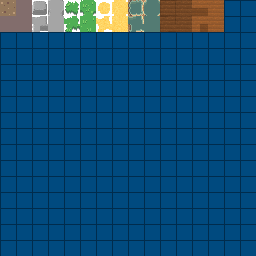
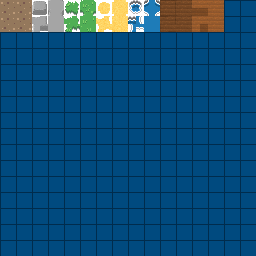
Working on terrain and zombies

diff --git a/WorldOfImagination/Maker.Hevadea/Game/Tiles/GrassTile.cs b/WorldOfImagination/Maker.Hevadea/Game/Tiles/GrassTile.cs
@@ -1,12 +1,29 @@
-using Maker.Rise.Ressource;
+using Maker.Hevadea.Enum;
+using Maker.Rise.Ressource;
+using System;
 
 namespace Maker.Hevadea.Game.Tiles
 {
     public class GrassTile : Tile
     {
+        Random rnd = new Random();
+
         public GrassTile(byte id) : base(id)
         {
             Sprite = new Sprite(Ressources.tile_tiles, 2);
+        }
+
+        public override void Update(Level level, int tx, int ty)
+        {
+
+            base.Update(level, tx, ty);
+            var direction = (Direction)(rnd.Next(0, 4));
+            var p = direction.ToPoint();
+
+            if (level.GetTile(tx + p.X, ty + p.Y) is DirtTile && rnd.Next(10) == 5)
+            {
+                level.SetTile(tx + p.X, ty + p.Y, Grass);
+            }
         }
     }
 }

diff --git a/WorldOfImagination/Maker.Hevadea/Game/Entities/ZombieEntity.cs b/WorldOfImagination/Maker.Hevadea/Game/Entities/ZombieEntity.cs
@@ -21,6 +21,7 @@ namespace Maker.Hevadea.Game.Entities
             AddComponent(new NpcRenderComponent(new Sprite(Ressources.tile_creatures, 2, new Point(16, 32))));
         }
 
+        Random rnd = new Random();
         private int counter = 16;
         private Direction direction = Direction.Down;
         
@@ -30,7 +31,6 @@ namespace Maker.Hevadea.Game.Entities
 
             if (counter == 0)
             {
-                var rnd = new Random();
                 direction = (Direction)rnd.Next(0, 4);
                 counter = rnd.Next(8, 48);
             }

diff --git a/WorldOfImagination/Maker.Hevadea/Game/Tiles/RockTile.cs b/WorldOfImagination/Maker.Hevadea/Game/Tiles/RockTile.cs
@@ -17,7 +17,7 @@ namespace Maker.Hevadea.Game.Tiles
             var dmg = e.Level.GetTileData(tilePosition, "damages", 0) + damages;
             if (dmg > 5)
             {
-                e.Level.SetTile(tilePosition.X, tilePosition.Y, Grass.ID);
+                e.Level.SetTile(tilePosition.X, tilePosition.Y, Dirt.ID);
             }
             else
             {

diff --git a/WorldOfImagination/Maker.Hevadea/Game/Tiles/Tile.cs b/WorldOfImagination/Maker.Hevadea/Game/Tiles/Tile.cs
@@ -22,6 +22,7 @@ namespace Maker.Hevadea.Game.Tiles
         public static RockTile Rock = new RockTile(4);
         public static WoodFloorTile WoodFloor = new WoodFloorTile(5);
         public static WoodWallTile WoodWall = new WoodWallTile(6);
+        public static DirtTile Dirt = new DirtTile(7);
 
         #endregion
 

diff --git a/WorldOfImagination/Maker.Hevadea/Game/Tiles/DirtTile.cs b/WorldOfImagination/Maker.Hevadea/Game/Tiles/DirtTile.cs
@@ -1,0 +1,15 @@
+using System;
+using System.Collections.Generic;
+using System.Linq;
+using System.Text;
+using System.Threading.Tasks;
+
+namespace Maker.Hevadea.Game.Tiles
+{
+    public class DirtTile : Tile
+    {
+        public DirtTile(byte id) : base(id)
+        {
+        }
+    }
+}

diff --git a/WorldOfImagination/Maker.Hevadea/Game/Tiles/WaterTile.cs b/WorldOfImagination/Maker.Hevadea/Game/Tiles/WaterTile.cs
@@ -7,7 +7,7 @@ namespace Maker.Hevadea.Game.Tiles
         public WaterTile(byte id) : base(id)
         {
             Sprite = new Sprite(Ressources.tile_tiles, 4);
-            BackgroundDirt = false;
+            //BackgroundDirt = false;
         }
     }
 }
